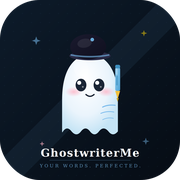
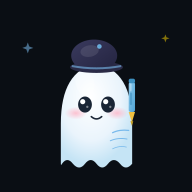
Add PWA files for Play Store prep

diff --git a/public/service-worker.js b/public/service-worker.js
@@ -1,0 +1,72 @@
+/* GhostwriterMe service worker (v1)
+ *
+ * Strategy (deliberately conservative so nothing about payments/auth breaks):
+ *  - NAVIGATIONS (loading the app itself): network-first, fall back to the
+ *    last cached index.html only when offline. Network-first means a new
+ *    Vercel deploy is picked up immediately — no stale-app bug reports.
+ *  - STATIC ASSETS (/static/*, icons): cache-first. CRA fingerprints these
+ *    filenames (main.abc123.js), so serving from cache is always safe.
+ *  - EVERYTHING ELSE (/api/*, api.stripe.com, accounts.google.com, Supabase):
+ *    NOT intercepted at all. The fetch handler returns early, so payments,
+ *    OAuth and history sync behave exactly as they do today.
+ */
+
+const CACHE_VERSION = "gwm-v1"; // bump this string to force-refresh old caches
+
+self.addEventListener("install", (event) => {
+  // Pre-cache the app shell so offline fallback works from first install.
+  event.waitUntil(
+    caches.open(CACHE_VERSION).then((cache) => cache.addAll(["/", "/manifest.json"]))
+  );
+  self.skipWaiting();
+});
+
+self.addEventListener("activate", (event) => {
+  // Edge case: delete caches from previous versions so storage doesn't grow forever.
+  event.waitUntil(
+    caches.keys().then((keys) =>
+      Promise.all(keys.filter((k) => k !== CACHE_VERSION).map((k) => caches.delete(k)))
+    ).then(() => self.clients.claim())
+  );
+});
+
+self.addEventListener("fetch", (event) => {
+  const url = new URL(event.request.url);
+
+  // 1) Never touch non-GET requests (Stripe POSTs, Claude proxy calls, etc.)
+  if (event.request.method !== "GET") return;
+
+  // 2) Never touch cross-origin requests (Stripe JS, Google Identity, Supabase)
+  //    or our own serverless API — always straight to the network.
+  if (url.origin !== self.location.origin || url.pathname.startsWith("/api/")) return;
+
+  // 3) Navigations: network-first with offline fallback to cached shell.
+  if (event.request.mode === "navigate") {
+    event.respondWith(
+      fetch(event.request)
+        .then((res) => {
+          // Keep the freshest shell for offline use.
+          const copy = res.clone();
+          caches.open(CACHE_VERSION).then((cache) => cache.put("/", copy));
+          return res;
+        })
+        .catch(() => caches.match("/"))
+    );
+    return;
+  }
+
+  // 4) Static assets: cache-first, populate cache on first fetch.
+  event.respondWith(
+    caches.match(event.request).then((cached) => {
+      if (cached) return cached;
+      return fetch(event.request).then((res) => {
+        // Edge case: only cache successful, basic (same-origin) responses.
+        if (res.ok && res.type === "basic") {
+          const copy = res.clone();
+          caches.open(CACHE_VERSION).then((cache) => cache.put(event.request, copy));
+        }
+        return res;
+      });
+    })
+  );
+});

diff --git a/src/registerServiceWorker.js b/src/registerServiceWorker.js
@@ -1,0 +1,17 @@
+// registerServiceWorker.js — call once from src/index.js
+// Registers /service-worker.js in production builds only.
+// Edge cases handled:
+//  - localhost / `npm start`: skipped entirely, so dev hot-reload keeps working.
+//  - Browsers without service worker support (old iOS Safari): silently no-op.
+//  - Registration failure: logged, never thrown — the app must still load.
+
+export default function registerServiceWorker() {
+  if (process.env.NODE_ENV !== "production") return;
+  if (!("serviceWorker" in navigator)) return;
+
+  window.addEventListener("load", () => {
+    navigator.serviceWorker
+      .register("/service-worker.js")
+      .catch((err) => console.error("Service worker registration failed:", err));
+  });
+}

diff --git a/public/index.html b/public/index.html
@@ -11,7 +11,9 @@
     />
     <link rel="apple-touch-icon" href="%PUBLIC_URL%/logo192.png" />
     <link rel="manifest" href="%PUBLIC_URL%/manifest.json" />
-    <title>GhostwriterMe</title>
+    <title>GhostwriterMe</title><meta name="theme-color" content="#0a0e14"/>
+<link rel="manifest" href="%PUBLIC_URL%/manifest.json"/>
+<link rel="apple-touch-icon" href="%PUBLIC_URL%/icons/apple-touch-icon.png"/>
     <meta name="google-signin-client_id" content="%REACT_APP_GOOGLE_CLIENT_ID%">
     <script src="https://accounts.google.com/gsi/client" async defer></script>
   </head>

diff --git a/src/index.js b/src/index.js
@@ -1,3 +1,4 @@
+import registerServiceWorker from "./registerServiceWorker";
 import React from 'react';
 import ReactDOM from 'react-dom/client';
 import './index.css';
@@ -20,3 +21,4 @@ if ("serviceWorker" in navigator) {
     navigator.serviceWorker.register("/sw.js");
   });
 }
+registerServiceWorker();
